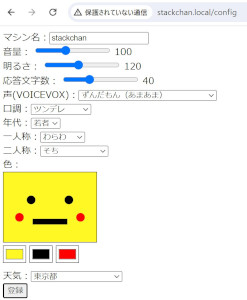
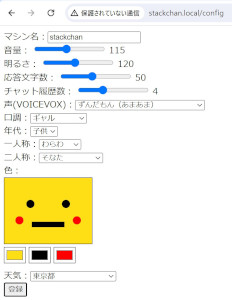
チャットGPTの履歴数を変更可能にする

diff --git a/src/main.cpp b/src/main.cpp
@@ -45,6 +45,8 @@ String config_first_person = "わたし";     // 一人称
 String config_second_person = "あなた";    // 二人称
 String config_weather = "130000";          // 天気：東京
 uint16_t https_timeout = 20000;            // HTTPタイムアウト時間
+uint8_t config_history_count = 3;          // ChatGPT履歴の自分の発話最大数
+std::deque<String> chat_history;           // ChatGPT履歴のキュー
 
 String today_weather;     // 今日の天気
 String tomorrow_weather;  // 明日の天気
@@ -138,6 +140,7 @@ void set_nvs_config() {
         nvs_set_u8(nvs, "volume", config_volume);
         nvs_set_u8(nvs, "brightness", config_brightness);
         nvs_set_u8(nvs, "word_count", config_word_count);
+        nvs_set_u8(nvs, "history_count", config_history_count);
         nvs_set_u8(nvs, "speaker", config_speaker);
         nvs_set_str(nvs, "tone", config_tone.c_str());
         nvs_set_str(nvs, "age", config_age.c_str());
@@ -153,8 +156,8 @@ void set_nvs_config() {
         nvs_set_u8(nvs, "color3_green", config_color3_green);
         nvs_set_u8(nvs, "color3_blue", config_color3_blue);
         nvs_set_str(nvs, "weather", config_weather.c_str());
-        M5.Log.printf("NVS：設定情報の保存成功(%s %d %d %d %d %s %s %s %s %d %d %d %d %d %d %d %d %d %s)\n", 
-            config_machine_name.c_str(), config_volume, config_brightness, config_word_count, config_speaker,
+        M5.Log.printf("NVS：設定情報の保存成功(%s %d %d %d %d %d %s %s %s %s %d %d %d %d %d %d %d %d %d %s)\n", 
+            config_machine_name.c_str(), config_volume, config_brightness, config_word_count, config_history_count, config_speaker,
             config_tone.c_str(), config_age.c_str(), config_first_person.c_str(), config_second_person.c_str(), 
             config_color1_red, config_color1_green, config_color1_blue, config_color2_red, config_color2_green, config_color2_blue,
             config_color3_red, config_color3_green, config_color3_blue, config_weather);
@@ -218,6 +221,7 @@ void get_nvs_config() {
         nvs_get_u8(nvs, "volume", &config_volume);
         nvs_get_u8(nvs, "brightness", &config_brightness);
         nvs_get_u8(nvs, "word_count", &config_word_count);
+        nvs_get_u8(nvs, "history_count", &config_history_count);
         nvs_get_u8(nvs, "speaker", &config_speaker);
         if (nvs_get_str(nvs, "tone", 0, &length) == ESP_OK) {
             nvs_get_str(nvs, "tone", value, &length);
@@ -248,8 +252,8 @@ void get_nvs_config() {
             nvs_get_str(nvs, "weather", value, &length);
             config_weather = String(value);
         }
-        M5.Log.printf("NVS：設定情報の読み込み成功(%s %d %d %d %d %s %s %s %s %d %d %d %d %d %d %d %d %d %s)\n", 
-            config_machine_name.c_str(), config_volume, config_brightness, config_word_count, config_speaker,
+        M5.Log.printf("NVS：設定情報の読み込み成功(%s %d %d %d %d %d %s %s %s %s %d %d %d %d %d %d %d %d %d %s)\n", 
+            config_machine_name.c_str(), config_volume, config_brightness, config_word_count, config_history_count, config_speaker,
             config_tone.c_str(), config_age.c_str(), config_first_person.c_str(), config_second_person.c_str(), 
             config_color1_red, config_color1_green, config_color1_blue, config_color2_red, config_color2_green, config_color2_blue,
             config_color3_red, config_color3_green, config_color3_blue, config_weather);
@@ -480,6 +484,7 @@ void setup() {
         config_volume = request->arg("volume").toInt();
         config_brightness = request->arg("brightness").toInt();
         config_word_count = request->arg("word_count").toInt();
+        config_history_count = request->arg("history_count").toInt();
         config_speaker = request->arg("speaker").toInt();
         config_tone = request->arg("tone");
         config_age = request->arg("age");
@@ -496,6 +501,7 @@ void setup() {
         MDNS.end();
         MDNS.begin(config_machine_name);
         execute_weather();
+        chat_history.clear();
         request->send(200, "text/html", html_ok());
     });
     server.on("/chatgpt", HTTP_ANY, [](AsyncWebServerRequest *request) {

diff --git a/src/Html.cpp b/src/Html.cpp
@@ -72,6 +72,11 @@ const String html_config_string_1 = R"(
           <input type="range" id="wordCountSlider" name="word_count" min="10" max="100" step="10">
           <output for="wordCountSlider" id="selectedWordCount"></output>
         </div>
+        <div>
+          <label for="historyCountSlider">チャット履歴数：</label>
+          <input type="range" id="historyCountSlider" name="history_count" min="1" max="10" step="1">
+          <output for="historyCountSlider" id="selectedHistoryCount"></output>
+        </div>
         声(VOICEVOX)：<select id="speaker" name="speaker"></select><br>
         口調：<select id="tone" name="tone"></select><br>
         年代：<select id="age" name="age"></select><br>
@@ -102,6 +107,8 @@ const String html_config_string_1 = R"(
       const selectedBrightness = document.getElementById("selectedBrightness");
       const wordCountSlider = document.getElementById("wordCountSlider");
       const selectedWordCount = document.getElementById("selectedWordCount");
+      const historyCountSlider = document.getElementById("historyCountSlider");
+      const selectedHistoryCount = document.getElementById("selectedHistoryCount");
       const color1 = document.getElementById("color1");
       const color2 = document.getElementById("color2");
       const color3 = document.getElementById("color3");
@@ -129,6 +136,10 @@ const String html_config_string_1 = R"(
 
       wordCountSlider.addEventListener("input", function() {
         selectedWordCount.textContent = wordCountSlider.value;
+      });
+
+      historyCountSlider.addEventListener("input", function() {
+        selectedHistoryCount.textContent = historyCountSlider.value;
       });
 
       color1.addEventListener("input", () => {
@@ -180,6 +191,8 @@ String html_config() {
           selectedBrightness.textContent = )" + String(config_brightness) + R"(;
           wordCountSlider.value = )" + String(config_word_count) + R"(;
           selectedWordCount.textContent = )" + String(config_word_count) + R"(;
+          historyCountSlider.value = )" + String(config_history_count) + R"(;
+          selectedHistoryCount.textContent = )" + String(config_history_count) + R"(;
           container.style.backgroundColor = ")" + color1 + R"(";
           color1.value = ")" + color1 + R"(";
           circle1.style.backgroundColor = ")" + color2 + R"(";

diff --git a/src/ChatGPT.cpp b/src/ChatGPT.cpp
@@ -9,10 +9,9 @@ extern String config_tone;
 extern String config_age;
 extern String config_first_person;
 extern String config_second_person;
+extern uint8_t config_history_count;
+extern std::deque<String> chat_history;
 extern uint16_t https_timeout;
-
-constexpr int chat_history_max = 5;
-std::deque<String> chat_history;
 
 // ChatGPTの応答文に改行があった場合に取り除く
 String remove_newline(const String& input) {
@@ -49,7 +48,7 @@ String ChatGPT::completions(String text) {
     }
 
     chat_history.push_back(text);
-    if (chat_history.size() > chat_history_max) {
+    if (chat_history.size() > (config_history_count * 2 -1)) {
         chat_history.pop_front();
         chat_history.pop_front();
     }

diff --git a/src/Html.h b/src/Html.h
@@ -7,6 +7,7 @@ extern String config_machine_name;
 extern uint8_t config_volume;
 extern uint8_t config_brightness;
 extern uint8_t config_word_count;
+extern uint8_t config_history_count;
 extern uint8_t config_speaker;
 extern uint8_t config_color1_red;
 extern uint8_t config_color1_green;

diff --git a/README.md b/README.md
@@ -64,11 +64,12 @@
    - 音量：スピーカーの音量です。
    - 明るさ：画面の明るさです。
    - 応答文字数：ChatGPTの応答文の文字数です。（※この制限は、守ってくれたりくれなかったり…。）
+   - チャット履歴数：ChatGPTの履歴数です。（※履歴数×2-1：あなた、GPT、あなた、GPT、あなた）
    - 声：VOICEVOXの声の種類です。
    - 口調、年代、一人称、二人称：この組み合わせで疑似的に性格を変えます。
    - 色：背景、目・口、ほっぺの色です。
-   - 天気：天気予報の対象地域です。（※[出典：気象庁天気予報](https://www.jma.go.jp/jma/kishou/info/coment.html)）
-
+- 天気：天気予報の対象地域です。（※[出典：気象庁天気予報](https://www.jma.go.jp/jma/kishou/info/coment.html)）
+   
 4. 画面の上半分を押すと「ｽﾀｯｸﾁｬﾝとの会話」ができます。画面の左下を押すと「日付・曜日・時間」を表示します。画面の右下を押すと「今日の天気・明日の天気」を表示します。
 
 ## 付加機能
